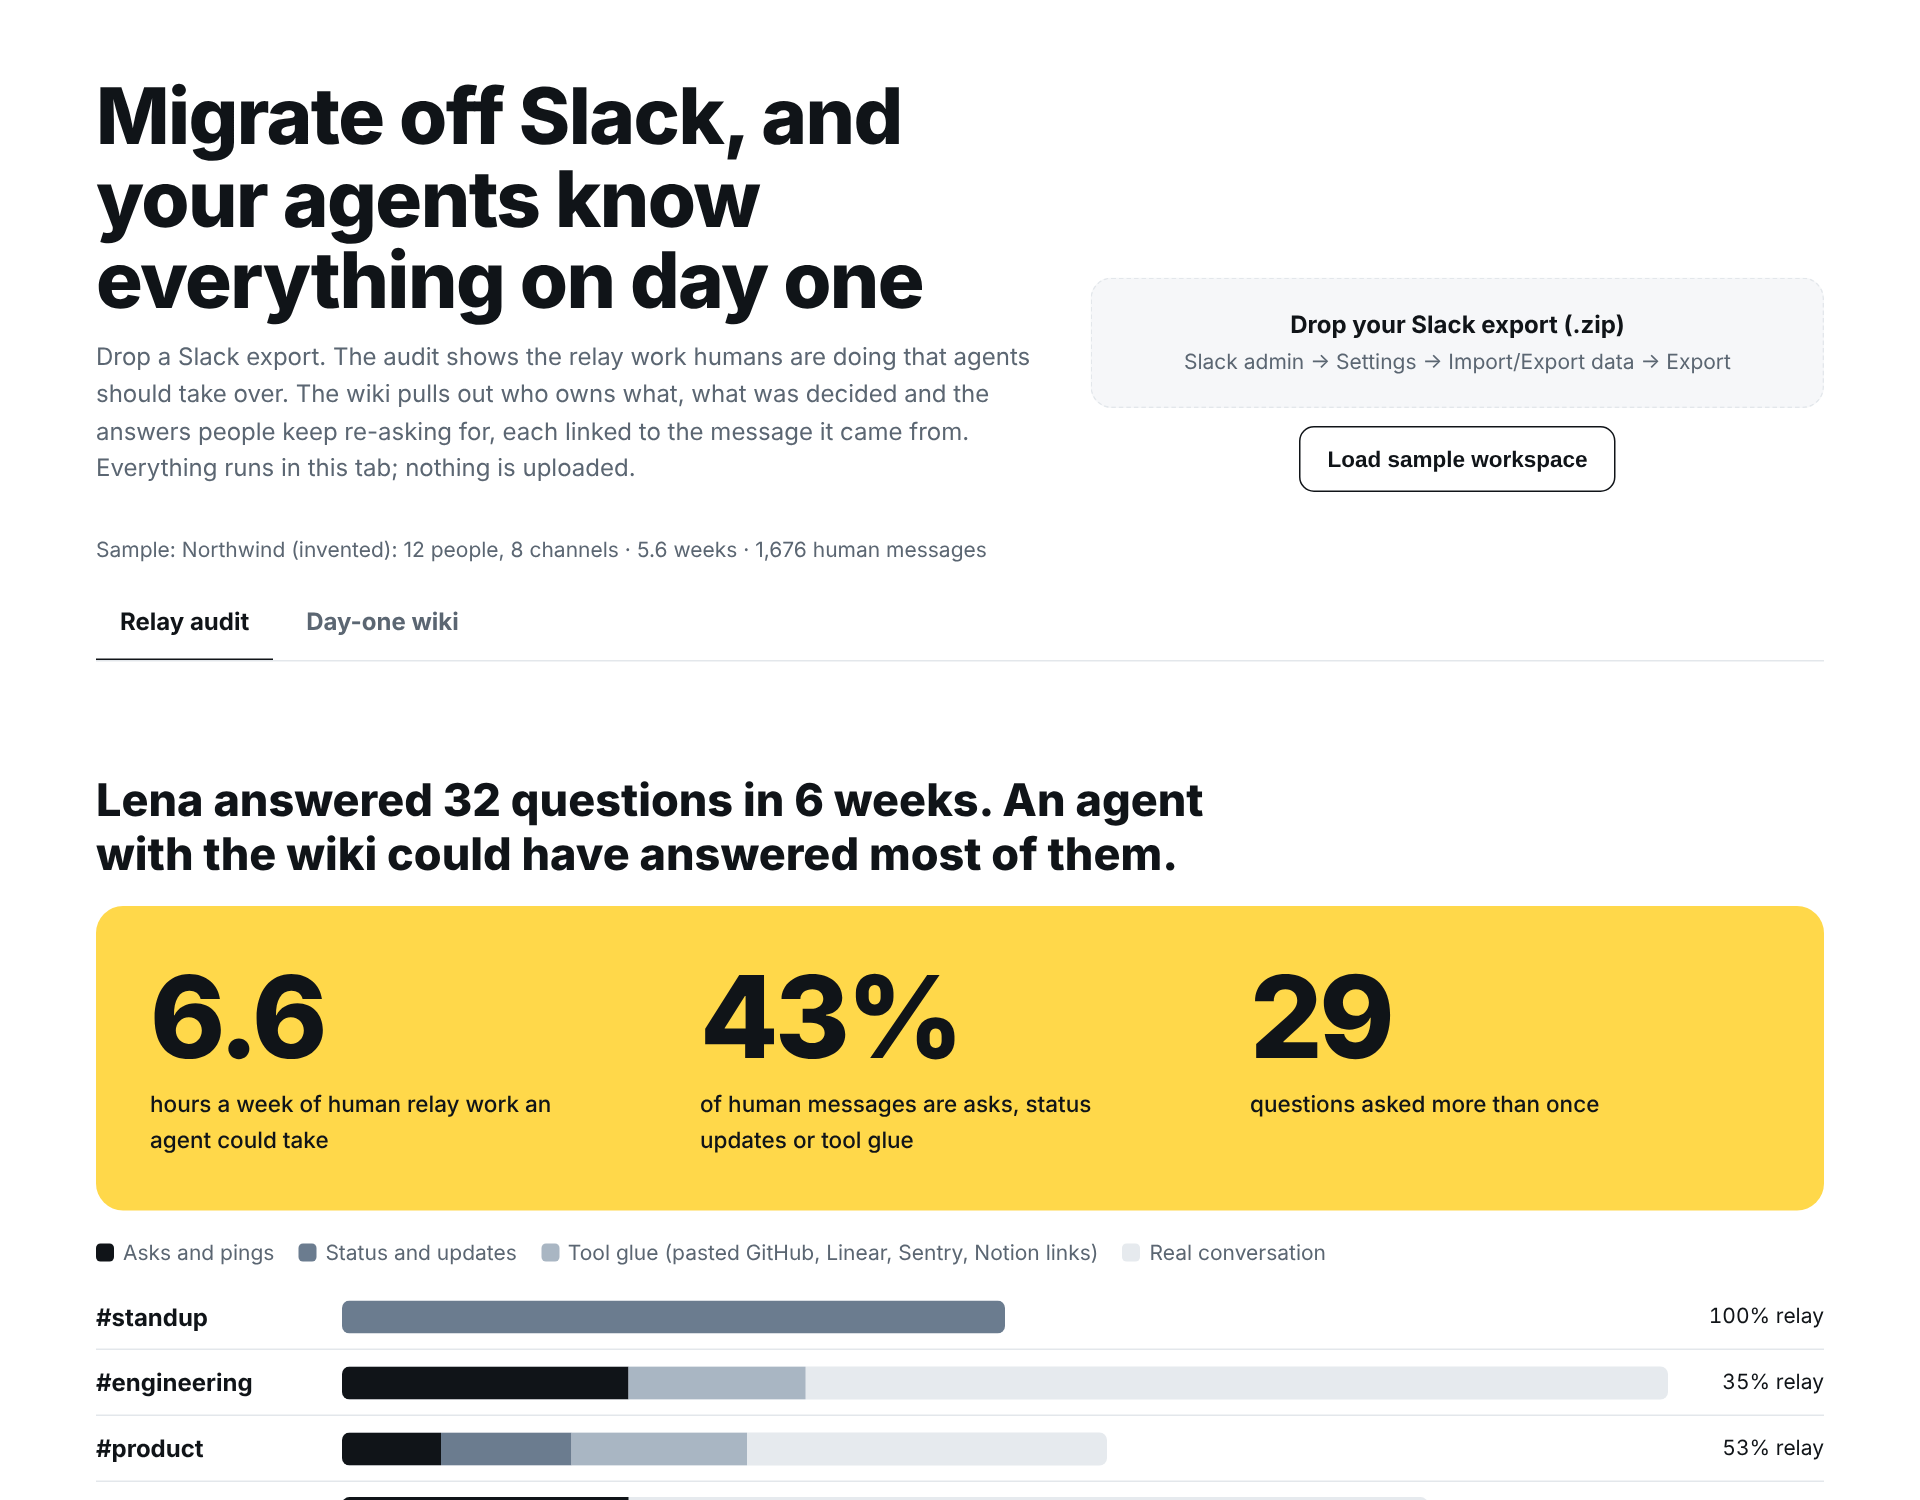
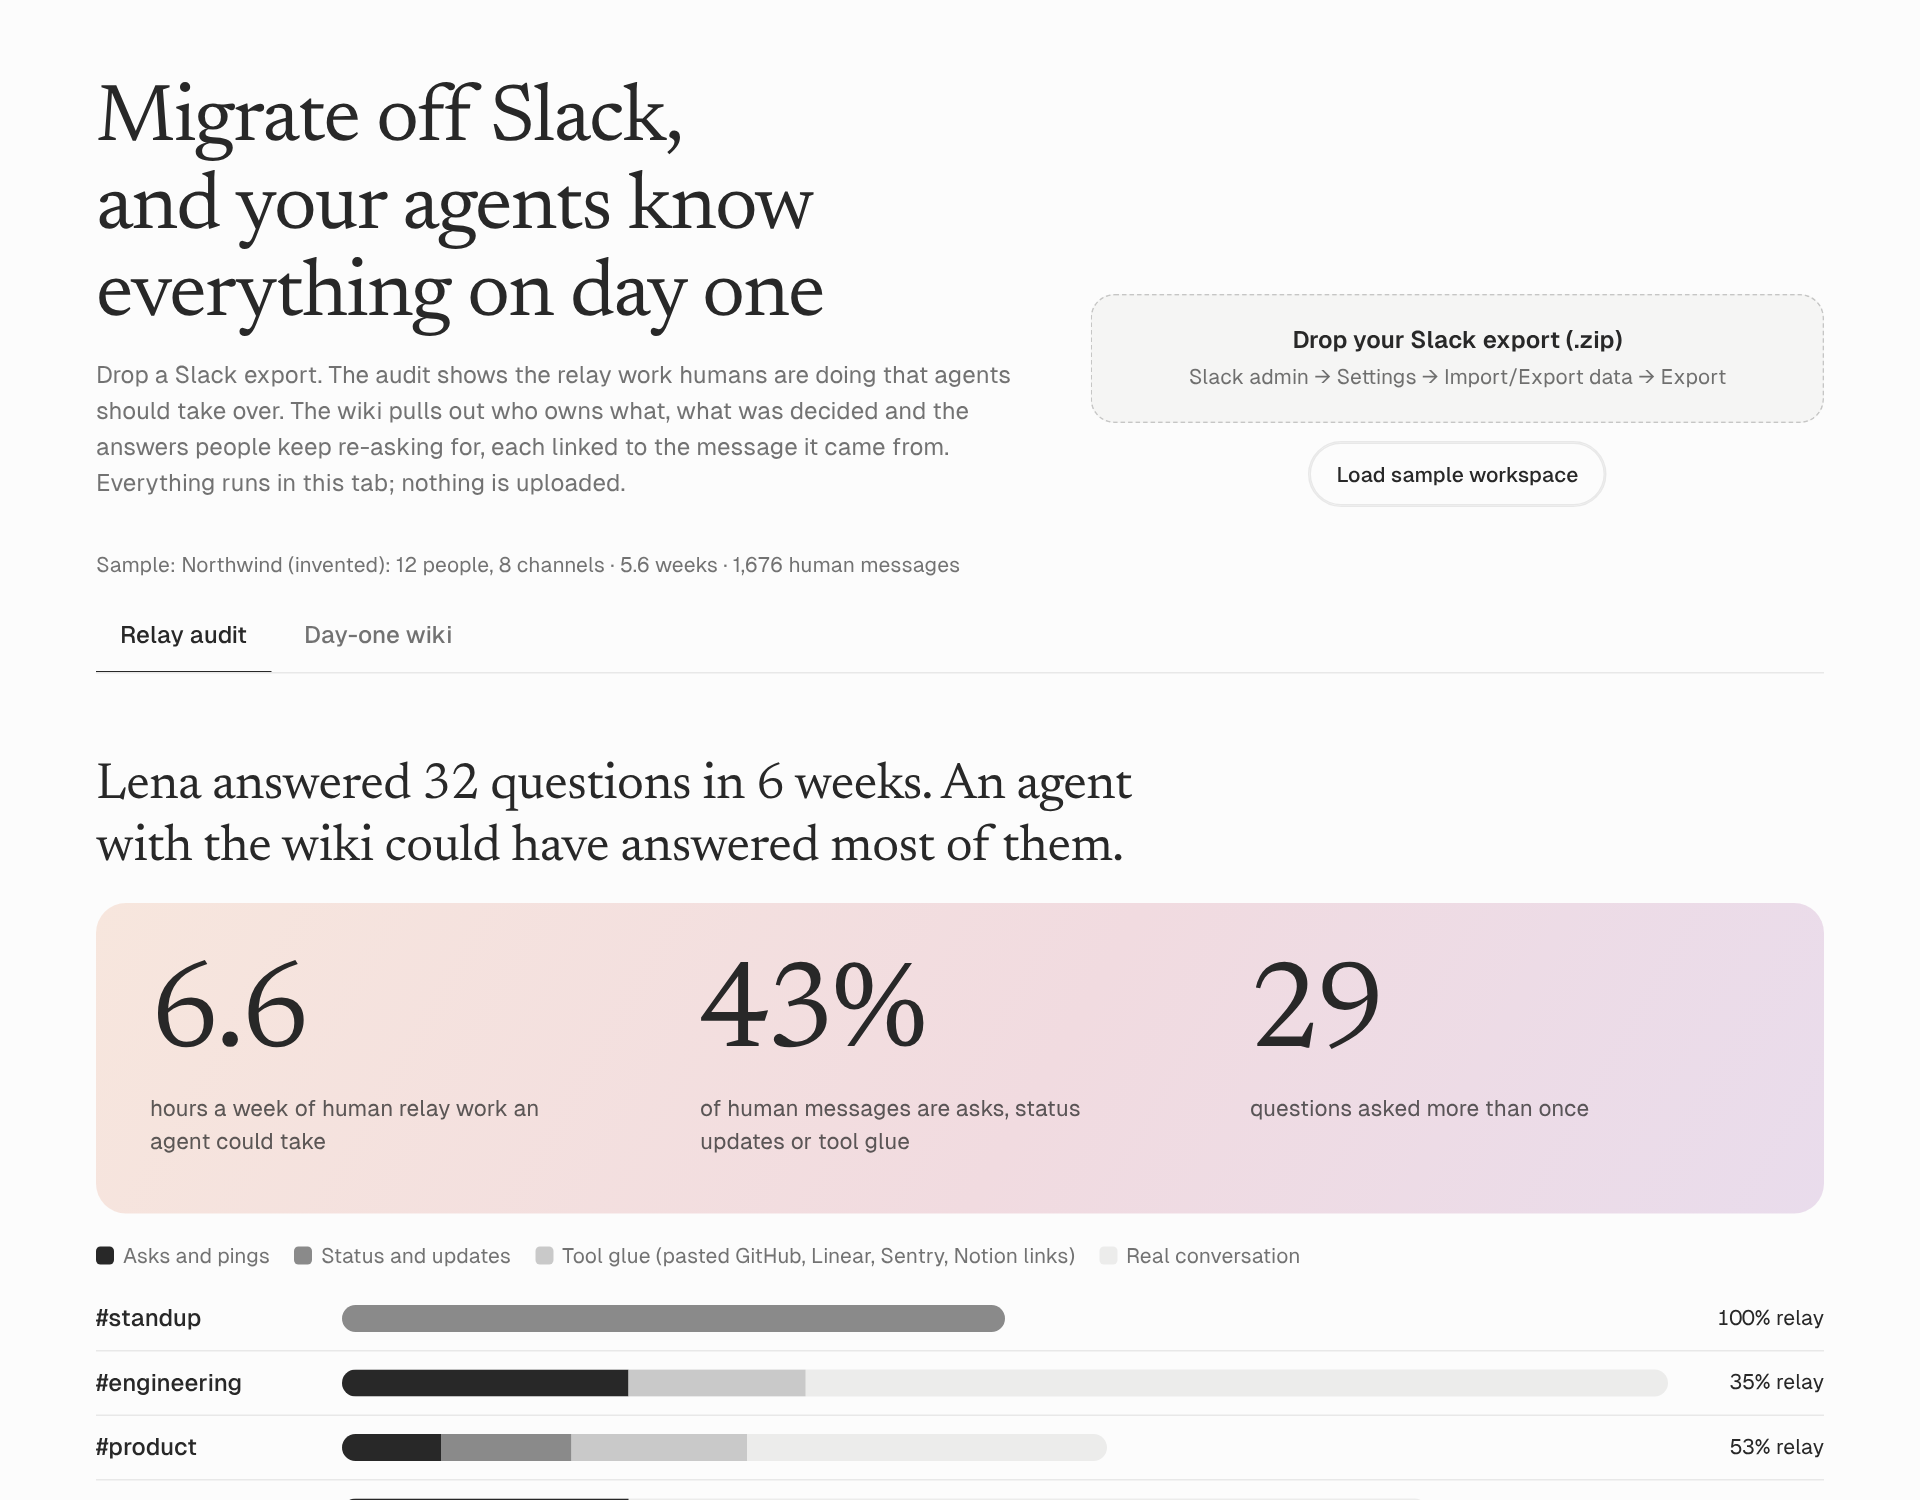
Restyle in Ando's visual language
Off-white ground, charcoal ink, serif headings (Newsreader as an open
stand-in for Signifier), Geist body, pill buttons, and a soft peach-rose
card for the headline figures. Dark mode uses Ando's #0a0a0a.

diff --git a/src/styles.css b/src/styles.css
@@ -1,70 +1,71 @@
-/* VOICE: audit report, plain and exact; a founder should get it in five seconds
+/* VOICE: calm and lean, in the visual language of ando.so, so the Ando team feels at home
    IDEA: an auditor's findings sheet for a Slack workspace, then the handbook it produces
-   PICTURE: the headline figures on a yellow slab, per-channel stacked bars, a cited wiki
-   COLOUR and TYPE: white, ink #101418, yellow #ffd84a slab only, slate; Manrope
+   PICTURE: headline figures on a soft peach-to-rose card, monochrome stacked bars, a cited wiki
+   COLOUR and TYPE: #fcfcfc ground, #282828 ink, pill buttons in #242424; Newsreader 400 headings
+     (open stand-in for Signifier), Geist body (Ando's own fallback face)
    LAYOUT: figure first, then what to do, then evidence */
-:root{color-scheme:light dark;--bg:light-dark(#fff,#101418);--ink:light-dark(#101418,#eef1f4);--mute:light-dark(#5b6672,#97a3ae);--line:light-dark(#e3e7eb,#252c33);--card:light-dark(#f6f7f9,#161c22);--paper:light-dark(#fff,#1b2229);--y:#ffd84a;--ask:light-dark(#101418,#eef1f4);--stat:#6b7c8f;--tool:#a9b6c3;--oth:light-dark(#e6eaee,#2a323a)}
+:root{color-scheme:light dark;--bg:light-dark(#fcfcfc,#0a0a0a);--ink:light-dark(#282828,#ededed);--mute:light-dark(rgb(0 0 0/.55),rgb(255 255 255/.55));--line:light-dark(rgb(0 0 0/.08),rgb(255 255 255/.1));--card:light-dark(#f5f5f4,#141414);--paper:light-dark(#fff,#161616);--btn:light-dark(#242424,#ededed);--btnInk:light-dark(#fcfcfc,#0a0a0a);--glow:light-dark(linear-gradient(120deg,#f7e6dd 0%,#f1dbe0 55%,#e9dcec 100%),linear-gradient(120deg,#2a1f1c 0%,#2a1d24 55%,#231d2b 100%));--glowInk:light-dark(#282828,#f3ece9);--ask:light-dark(#282828,#ededed);--stat:light-dark(#8a8a8a,#9a9a9a);--tool:light-dark(#c9c9c9,#5a5a5a);--oth:light-dark(#ececeb,#222);--serif:Newsreader,Georgia,'Times New Roman',serif;--sans:Geist,ui-sans-serif,system-ui,sans-serif}
 :root[data-theme=light]{color-scheme:light}:root[data-theme=dark]{color-scheme:dark}
 *{box-sizing:border-box;min-width:0}
-body{margin:0;background:var(--bg);color:var(--ink);font:16px/1.55 Manrope,system-ui,sans-serif;overflow-x:clip}
+body{margin:0;background:var(--bg);color:var(--ink);font:16px/1.5 var(--sans);overflow-x:clip}
 a{color:inherit}
 .band{padding:clamp(28px,4vw,56px) max(5vw,16px)}.alt{background:var(--card)}.wrap{max-width:1240px;margin:0 auto}
-h1{font-size:clamp(32px,4.4vw,52px);line-height:1.05;margin:0 0 10px;text-wrap:balance;font-weight:800;letter-spacing:-.02em}
-h2{font-size:24px;line-height:1.2;margin:0 0 6px;font-weight:800}
+h1{font-family:var(--serif);font-size:clamp(34px,4.6vw,54px);line-height:1.08;margin:0 0 12px;text-wrap:balance;font-weight:400;letter-spacing:-.02em}
+h2{font-family:var(--serif);font-size:28px;line-height:1.25;margin:0 0 6px;font-weight:400;letter-spacing:-.01em}
 p{margin:0 0 12px;max-width:68ch}.mute{color:var(--mute)}.sm{font-size:14px}
 .top{display:grid;grid-template-columns:minmax(0,1.3fr) minmax(0,1fr);gap:28px;align-items:end;margin-bottom:20px}
-.drop{border:1.5px dashed var(--line);border-radius:14px;padding:18px;text-align:center;background:var(--card);cursor:pointer}
+.drop{border:1px dashed rgb(128 128 128/.4);border-radius:16px;padding:18px;text-align:center;background:var(--card);cursor:pointer}
 .drop.on{border-color:var(--ink)}.drop b{display:block}
-.btn{font:700 15px Manrope,sans-serif;min-height:44px;padding:0 18px;border-radius:10px;border:1.5px solid var(--ink);background:var(--ink);color:var(--bg);cursor:pointer}
-.btn.g{background:transparent;color:var(--ink)}.btn:disabled{opacity:.5;cursor:default}
-.btn:focus-visible,.drop:focus-visible,input:focus-visible,.tabs a:focus-visible,summary:focus-visible{outline:3px solid var(--y);outline-offset:2px}
+.btn{font:500 14px var(--sans);min-height:44px;padding:0 18px;border-radius:999px;border:1px solid var(--btn);background:var(--btn);color:var(--btnInk);cursor:pointer}
+.btn.g{background:transparent;color:var(--ink);border-color:var(--line);box-shadow:inset 0 0 0 1px var(--line)}.btn:disabled{opacity:.5;cursor:default}
+.btn:focus-visible,.drop:focus-visible,input:focus-visible,.tabs a:focus-visible,summary:focus-visible{outline:2px solid var(--ink);outline-offset:2px}
 .row{display:flex;flex-wrap:wrap;gap:10px;align-items:center;justify-content:center;margin-top:12px}.row.l{justify-content:flex-start}
-input[type=text],input[type=password]{font:16px Manrope,sans-serif;min-height:44px;padding:0 12px;border:1.5px solid var(--line);border-radius:10px;background:var(--paper);color:var(--ink);width:min(100%,320px)}
-.tabs{display:flex;gap:6px;border-bottom:1.5px solid var(--line);margin-top:8px;overflow-x:auto}
-.tabs a{text-decoration:none;font-weight:700;padding:12px 16px;min-height:44px;border-bottom:3px solid transparent;margin-bottom:-1.5px;white-space:nowrap;color:var(--mute)}
+input[type=text],input[type=password]{font:16px var(--sans);min-height:44px;padding:0 12px;border:1.5px solid var(--line);border-radius:999px;background:var(--paper);color:var(--ink);width:min(100%,320px);padding:0 16px}
+.tabs{display:flex;gap:6px;border-bottom:1px solid var(--line);margin-top:8px;overflow-x:auto}
+.tabs a{text-decoration:none;font-weight:500;padding:12px 16px;min-height:44px;border-bottom:2px solid transparent;margin-bottom:-1px;white-space:nowrap;color:var(--mute)}
 .tabs a[aria-current=page]{color:var(--ink);border-color:var(--ink)}
-.slab{background:var(--y);color:#101418;border-radius:18px;padding:clamp(20px,3vw,36px);display:grid;grid-template-columns:repeat(3,minmax(0,1fr));gap:20px;margin-top:24px}
-.big{font-size:clamp(40px,6vw,76px);font-weight:800;line-height:1;letter-spacing:-.03em;white-space:nowrap}
-.slab .l{font-size:15px;font-weight:500;margin-top:8px;max-width:28ch}
+.slab{background:var(--glow);color:var(--glowInk);border-radius:20px;padding:clamp(20px,3vw,36px);display:grid;grid-template-columns:repeat(3,minmax(0,1fr));gap:20px;margin-top:24px}
+.big{font-family:var(--serif);font-size:clamp(44px,6.4vw,84px);font-weight:400;line-height:1;letter-spacing:-.03em;white-space:nowrap}
+.slab .l{font-size:15px;font-weight:400;opacity:.75;margin-top:8px;max-width:28ch}
 .legend{display:flex;flex-wrap:wrap;gap:16px;font-size:14px;color:var(--mute);margin:18px 0 10px}
 .legend i{display:inline-block;width:12px;height:12px;border-radius:3px;margin-right:6px;vertical-align:-1px}
 .ch{display:grid;grid-template-columns:150px minmax(0,1fr) 90px;gap:14px;align-items:center;padding:9px 0;border-bottom:1px solid var(--line)}
-.ch .n{font-weight:700;overflow:hidden;text-overflow:ellipsis;white-space:nowrap}.ch .v{text-align:right;font-variant-numeric:tabular-nums;white-space:nowrap;font-size:14px}
-.bar{display:flex;height:22px;border-radius:5px;overflow:hidden;background:var(--oth)}
+.ch .n{font-weight:500;overflow:hidden;text-overflow:ellipsis;white-space:nowrap}.ch .v{text-align:right;font-variant-numeric:tabular-nums;white-space:nowrap;font-size:14px}
+.bar{display:flex;height:18px;border-radius:999px;overflow:hidden;background:var(--oth)}
 .bar span{display:block;height:100%;transition:width .6s ease}
 .grid2{display:grid;grid-template-columns:repeat(auto-fit,minmax(min(100%,340px),1fr));gap:18px;margin-top:16px}
-.agent{border:1px solid var(--line);border-radius:14px;padding:18px;background:var(--paper)}
-.agent h3{margin:0 0 2px;font-size:18px}.agent .ch2{font-size:14px;color:var(--mute);margin-bottom:10px}
+.agent{border:1px solid var(--line);border-radius:16px;padding:18px;background:var(--paper)}
+.agent h3{margin:0 0 2px;font-family:var(--serif);font-size:21px;font-weight:400}.agent .ch2{font-size:14px;color:var(--mute);margin-bottom:10px}
 .agent ul{margin:8px 0 0;padding-left:18px;font-size:15px}.agent li{margin:3px 0}
 .why{font-size:14px;border-top:1px solid var(--line);margin-top:10px;padding-top:8px;color:var(--mute)}
 table{width:100%;border-collapse:collapse;font-size:15px}th,td{text-align:left;padding:10px 8px;border-bottom:1px solid var(--line);vertical-align:top}
-th{font-size:13px;color:var(--mute);font-weight:700}td.num,th.num{text-align:right;font-variant-numeric:tabular-nums;white-space:nowrap}
+th{font-size:13px;color:var(--mute);font-weight:500}td.num,th.num{text-align:right;font-variant-numeric:tabular-nums;white-space:nowrap}
 .nw{white-space:nowrap}
 .tag{display:inline-block;font-size:13px;padding:1px 8px;border-radius:99px;background:var(--oth);margin:2px 4px 0 0;white-space:nowrap}
 .knobs{display:flex;flex-wrap:wrap;gap:24px;align-items:center;margin:8px 0 0}
-.knobs label{font-size:15px;display:flex;flex-wrap:wrap;gap:10px;align-items:center}input[type=range]{width:160px;accent-color:#101418}
+.knobs label{font-size:15px;display:flex;flex-wrap:wrap;gap:10px;align-items:center}input[type=range]{width:160px;accent-color:var(--ink)}
 .copyrow{display:flex;gap:10px;align-items:center;flex-wrap:wrap;margin-top:18px}
 .tools{display:flex;flex-wrap:wrap;gap:16px 32px;align-items:flex-end;justify-content:space-between;margin-top:20px}
-.tools label{display:grid;gap:6px;font-weight:700}
-details.src summary,details.polish summary{cursor:pointer;font-size:14px;font-weight:700;min-height:28px}
+.tools label{display:grid;gap:6px;font-weight:500}
+details.src summary,details.polish summary{cursor:pointer;font-size:14px;font-weight:500;min-height:28px}
 details.src ul{list-style:none;margin:8px 0 0;padding:0;display:grid;gap:8px}
 details.src li{font-size:14px;border-left:3px solid var(--line);padding:2px 0 2px 10px}
-details.src li b{font-weight:700}details.src .when{color:var(--mute)}
-details.polish{border:1px solid var(--line);border-radius:14px;padding:12px 16px;background:var(--paper);margin:14px 0 18px}
+details.src li b{font-weight:600}details.src .when{color:var(--mute)}
+details.polish{border:1px solid var(--line);border-radius:16px;padding:12px 16px;background:var(--paper);margin:14px 0 18px}
 .timeline{list-style:none;margin:16px 0 0;padding:0}
 .timeline li{display:grid;grid-template-columns:110px minmax(0,1fr);gap:16px;padding:14px 0;border-bottom:1px solid var(--line)}
-.timeline .d{font-weight:800;font-variant-numeric:tabular-nums;white-space:nowrap}
-.timeline .s{font-size:17px;font-weight:600;margin-bottom:4px}
+.timeline .d{font-weight:500;color:var(--mute);font-variant-numeric:tabular-nums;white-space:nowrap}
+.timeline .s{font-family:var(--serif);font-size:20px;font-weight:400;line-height:1.3;margin-bottom:4px}
 .faq{display:grid;grid-template-columns:repeat(auto-fit,minmax(min(100%,380px),1fr));gap:16px}
-.qa{background:var(--paper);border:1px solid var(--line);border-radius:14px;padding:18px}
-.qa h3{font-size:17px;margin:0 0 8px;line-height:1.3}.qa .a{font-size:16px;margin:0 0 10px;overflow-wrap:anywhere}
+.qa{background:var(--paper);border:1px solid var(--line);border-radius:16px;padding:18px}
+.qa h3{font-family:var(--serif);font-size:20px;font-weight:400;margin:0 0 8px;line-height:1.3}.qa .a{font-size:16px;margin:0 0 10px;overflow-wrap:anywhere}
 .qa .meta{font-size:14px;color:var(--mute);margin-bottom:6px}
-.flag{display:inline-block;font-size:13px;font-weight:700;padding:1px 8px;border-radius:99px;background:var(--y);color:#101418;white-space:nowrap}
+.flag{display:inline-block;font-size:13px;font-weight:500;padding:1px 10px;border-radius:99px;background:var(--glow);color:var(--glowInk);white-space:nowrap}
 footer{border-top:1px solid var(--line)}
-.err{color:#c0392b;font-weight:700;margin-top:8px}
+.err{color:#c0392b;font-weight:500;margin-top:8px}
 .empty{color:var(--mute);padding:12px 0}
 @media(max-width:820px){.top{grid-template-columns:minmax(0,1fr)}.slab{grid-template-columns:minmax(0,1fr)}}
 @media(max-width:600px){.ch{grid-template-columns:96px minmax(0,1fr) 64px;gap:8px}.timeline li{grid-template-columns:minmax(0,1fr);gap:2px}}
 @media(prefers-reduced-motion:reduce){.bar span{transition:none}}
 @media(max-width:600px){table{font-size:13px}.stack thead{display:none}.stack tr{display:grid;padding-block:10px}.stack td{display:flow-root;border:0;padding:3px 0;padding-inline-start:8em;text-align:start}.stack td::before{content:attr(data-l);float:inline-start;width:7.5em;margin-inline-start:-8em;white-space:normal;color:var(--mute)}.stack td:empty{display:none}}
-.finding{font-size:clamp(22px,2.6vw,30px);font-weight:800;line-height:1.2;margin:24px 0 0;max-width:none;text-wrap:balance}.finding:empty{display:none}.finding+.slab{margin-top:16px}
+.finding{font-family:var(--serif);font-size:clamp(24px,2.8vw,34px);font-weight:400;letter-spacing:-.01em;line-height:1.2;margin:4px 0 0;max-width:none;text-wrap:balance}.finding:empty{display:none}.finding+.slab{margin-top:16px}

diff --git a/index.html b/index.html
@@ -6,7 +6,7 @@
 <title>Slack to Ando</title>
 <meta name="description" content="Drop a Slack export. See the relay work agents should take over, and get a day-one wiki with every line linked to its source message.">
 <link rel="preconnect" href="https://fonts.googleapis.com">
-<link href="https://fonts.googleapis.com/css2?family=Manrope:wght@400;500;700;800&display=swap" rel="stylesheet">
+<link href="https://fonts.googleapis.com/css2?family=Geist:wght@400;500;600&family=Newsreader:opsz,wght@6..72,400;6..72,500&display=swap" rel="stylesheet">
 <link rel="stylesheet" href="src/styles.css">
 <script src="https://cdnjs.cloudflare.com/ajax/libs/jszip/3.10.1/jszip.min.js"></script>
 </head>
